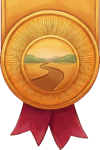
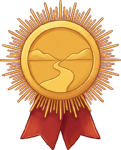
The thousand-day badge was cropped flat along its top edge
Props in both rooms are already painted cut-outs — 17 of the Upper Room's 18
furnishings and 14 of the keep's 15 decorations, over drawn fallbacks, with
the postcard inlining every href as a data: URI so a raster survives the
export. The two holdouts are the documented runtime-colour carve-out:
room_lampstand takes `lit` and keep_kite_shield takes the denomination's
colour, and a baked image can't take a colour.

What was NOT right was one render added with the streak badges: the 1000-day
medallion's prompt said "drawn large and filling the frame", and it was — its
whole top edge came back opaque, the crown of the sunburst sliced off square.
check-art.mjs had been flagging it as CHECK; it renders perfectly, which is
why looking at the PNG is the only thing that finds this. Re-rolled with the
margin clause room_scroll_rack already carries, plus a line naming the exact
failure. Now 36.8% clear with all four corners transparent, and the set still
reads as one hand across all six tiers.

Also corrects the CLAUDE.md note claiming furnishings must stay drawn SVG
because the postcard exports blank — true when it was written, and the reason
the postcard learned to inline. The half that still holds is that a drawn
fallback has to exist, since generated art layers over a drawing rather than
instead of it.

Claude-Session: https://claude.ai/code/session_01YX5X9jPGuGyR1WSb5kybbT

diff --git a/CLAUDE.md b/CLAUDE.md
@@ -3418,11 +3418,22 @@ Three rules the room adds to the ones it inherits:
   `lib/roomProgress.ts`, the `petProgress` shape). No grant table, nothing to
   revoke, and **the screen showing the room has to `load()` the bible and
   collection stores** or it quietly reports 0 and locks three earned pieces.
-- **Furnishings stay drawn SVG even once the room is painted.** `lib/postcard.ts`
-  serialises the scene into an `<img>` and an SVG loaded that way never fetches
-  external resources — a room made of `<image href>` exports blank. The chamber
-  may become a Nano Banana painting (`art/upper-room.json` → `room-1`…`room-5`,
-  wired through `GENERATED_ART` like every other tier ladder); the props may not.
+- **Furnishings are painted cut-outs over a drawn fallback**, like everything
+  else here — 17 of the 18 (`art/upper-room-props.json` → `public/keep/`), the
+  keep's 14 of 15 (`art/keep-props.json`, `RASTER_DECOR` in `data/keepArt.ts`).
+  The two holdouts are the documented runtime-colour carve-out: `room_lampstand`
+  takes `lit` and `keep_kite_shield` takes the denomination's colour, and a
+  baked image can't take a colour.
+
+  **This reversed a hard constraint, so read why before assuming it never was.**
+  `lib/postcard.ts` serialises the room into an `<img>`, and an SVG loaded that
+  way never fetches external resources — so a room made of `<image href>`
+  exported BLANK, and furnishings had to be drawn. The postcard INLINES every
+  href as a data: URI now, which is not a fetch, so a raster furnishing survives
+  the export and anything that fails to fetch is dropped rather than left
+  broken. What has NOT changed is that **a drawn fallback still has to exist**:
+  generated art layers OVER a drawing rather than instead of it, and a
+  furnishing with no drawing is an empty anchor the moment a PNG 404s.
 
 **The postcard has to go through Capacitor on native, and the reason is a whole
 class of bug.** `lib/postcard.ts` used to end at an `<a download>` click, which a
